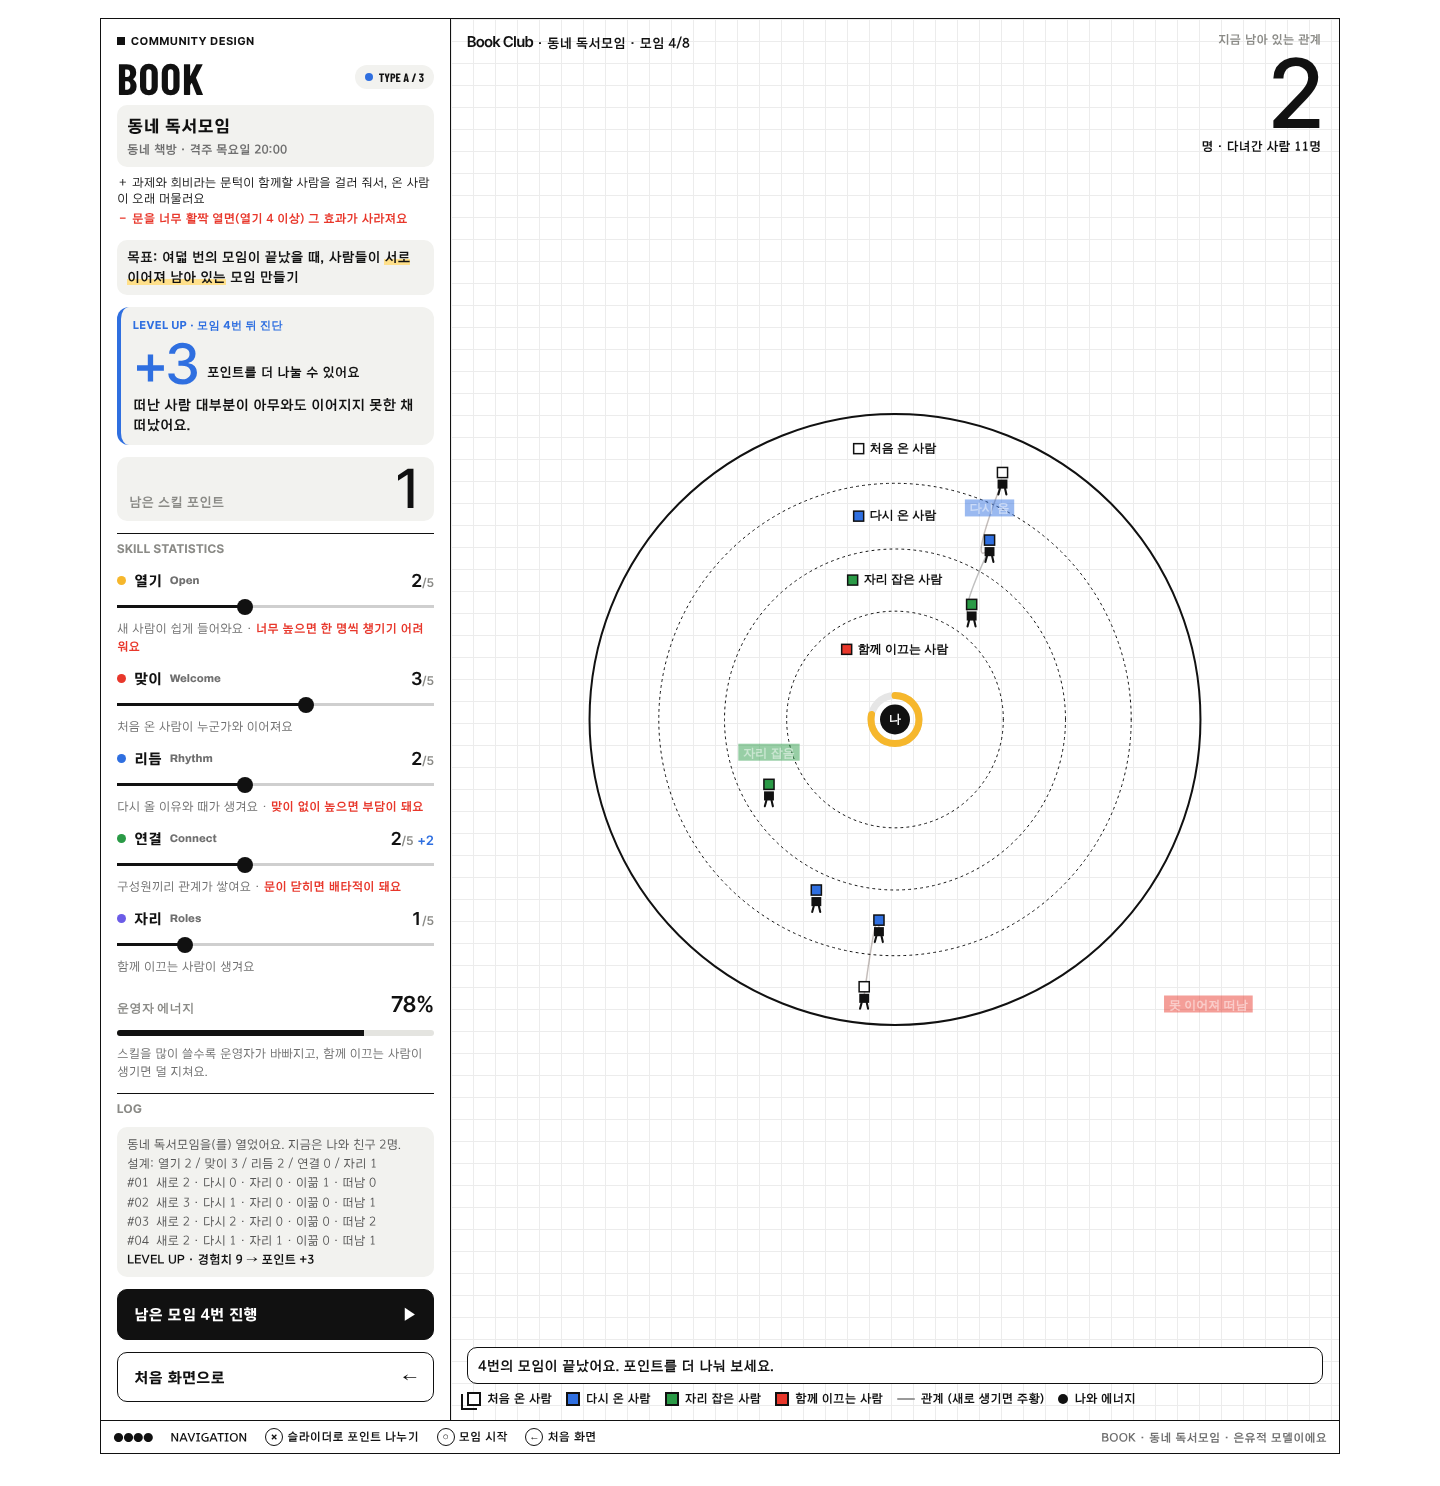
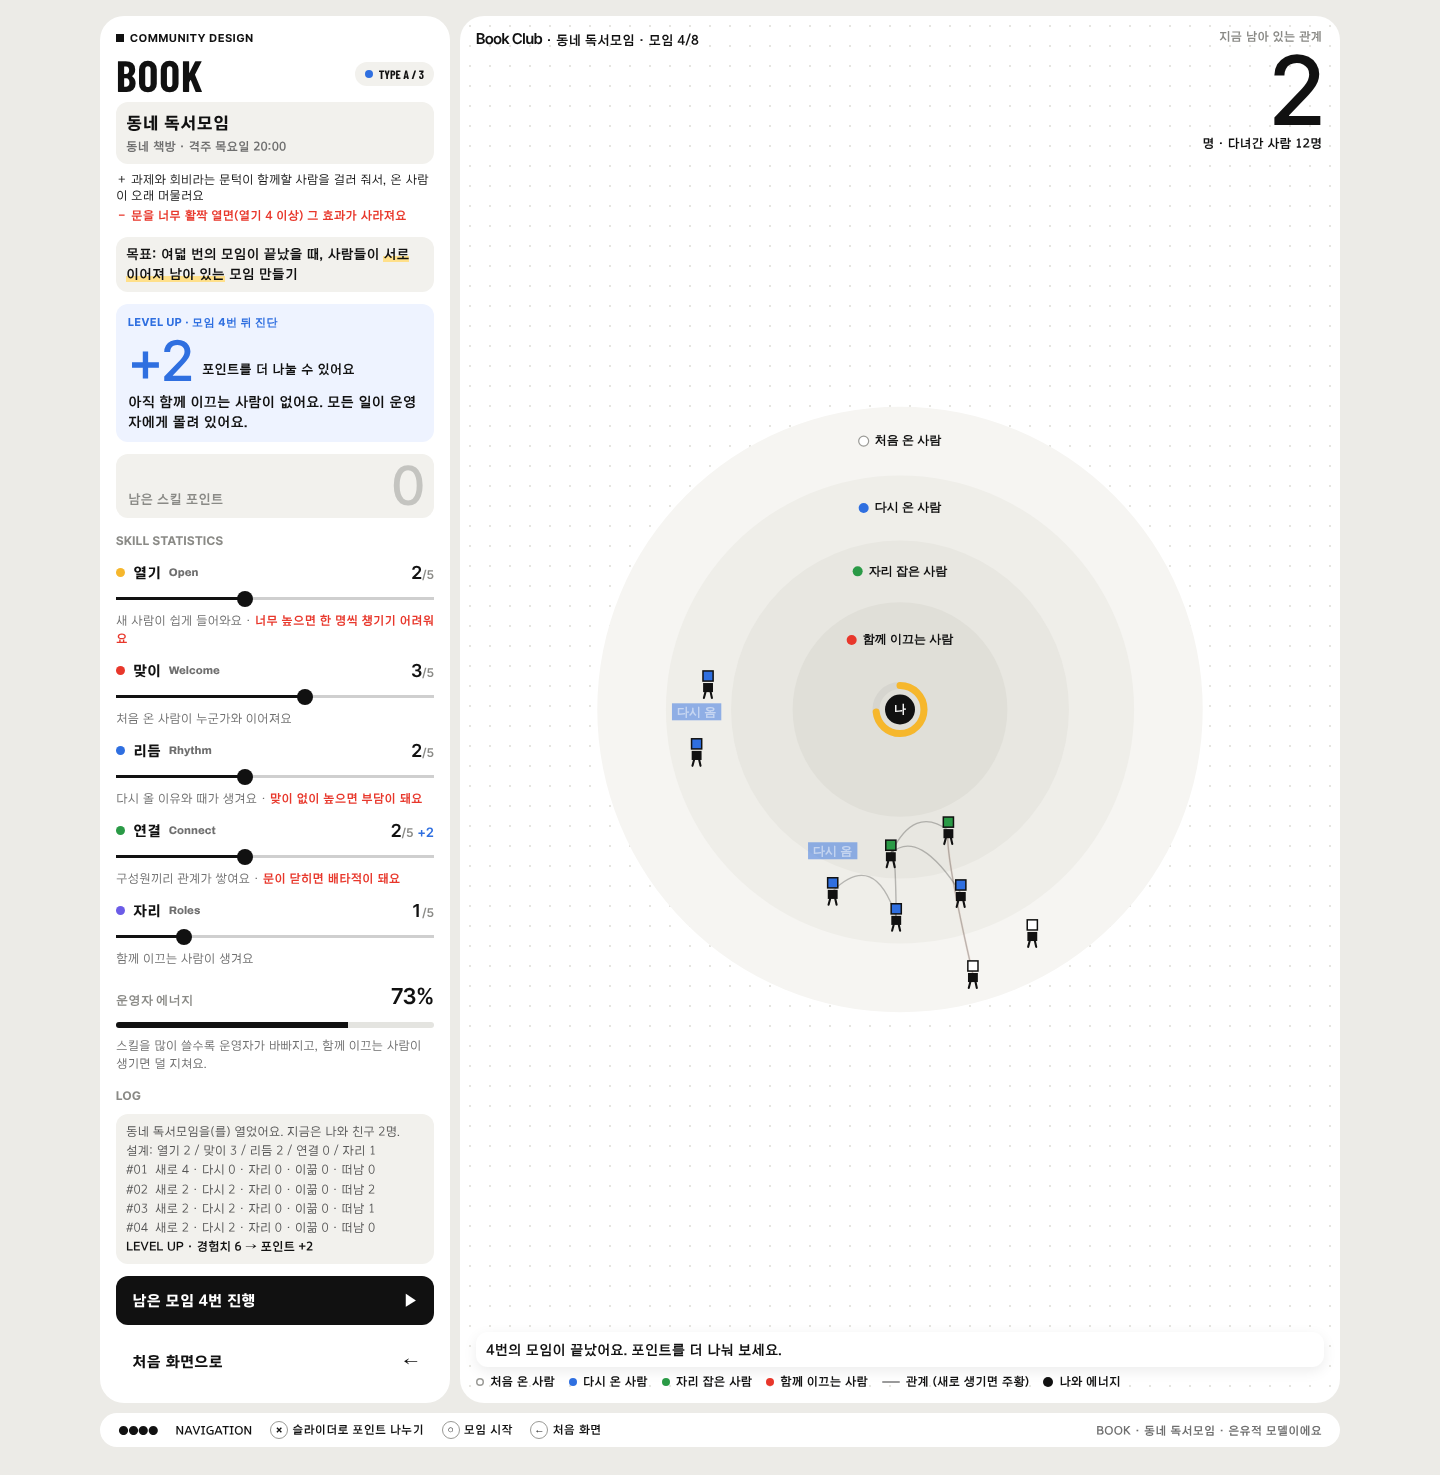
게임 v0.8 시안: 검은 선 없는 큰 radius 상자, 화면 비율이 바뀌어도 원이 찌그러지지 않게 수정
Claude-Session: https://claude.ai/code/session_01SaCvLutmawHZS3kxPWYxw7

diff --git a/thesis/game/moim.v07.src.html b/thesis/game/moim.v07.src.html
@@ -380,6 +380,54 @@ input[type=range]::-moz-range-thumb{border-radius:50%;border:0;background:var(--
 .q2 small{font-family:var(--f-head);font-weight:700;font-size:11px;letter-spacing:.06em;color:var(--soft)}
 .q2 b{font-size:20px;font-weight:800;line-height:1.4}
 .c2-r .cell p{font-size:13px;line-height:1.5;font-weight:700}
+
+/* ───────── v0.8 부드러운 상자: 검은 선 없이, 큰 radius의 흰 상자를 따뜻한 회색 바탕 위에 ───────── */
+:root{--page:#ecebe7;--card:#ffffff;--cell:#f2f1ed;--r-lg:24px;--r-md:16px;--r-sm:12px}
+body{background:var(--page)}
+.wrap{padding-block:16px 28px}
+.btn{border:0;border-radius:var(--r-sm)}
+.btn.ghost{background:var(--card)}
+.btn:disabled{background:#cfcec9;color:#fff;opacity:1}
+.lab{border-top:0;padding-top:0}
+/* 첫 화면 */
+.intro{border:0;gap:10px;min-height:min(88vh,780px)}
+.map{border:0!important;background:var(--card);border-radius:var(--r-lg)}
+.head{background:var(--card);border-radius:var(--r-lg);overflow:hidden}
+.h-bot{border-top:0;padding-top:4px}
+.ucard{border:0;border-radius:var(--r-sm);box-shadow:0 6px 20px rgba(0,0,0,.10)}
+.maplab{border-radius:var(--r-sm);padding:6px 8px}
+.istats div{border-radius:var(--r-sm)}
+/* 모임 고르기 */
+.entry{border:0;display:grid;gap:10px}
+.e-bar{border:0;background:var(--card);border-radius:999px;padding:10px 18px}
+.e-cards{padding:0}
+.ecard{border:0;border-radius:var(--r-lg)}
+.ecard:hover,.ecard:focus-visible{box-shadow:0 12px 28px rgba(0,0,0,.12)}
+.e-img{border-radius:var(--r-md);margin:10px 10px 0}
+.e-cells{padding:8px 10px 0}
+.e-cells .cell{border-radius:var(--r-sm)}
+.e-go{margin:0 10px 10px;border-radius:var(--r-sm)}
+.e-foot{padding:0}
+/* 설계 화면 */
+.tool{border:0;gap:10px;grid-template-columns:350px minmax(0,1fr)}
+@media (max-width:820px){.tool{grid-template-columns:minmax(0,1fr)}}
+.panel{border:0!important;background:var(--card);border-radius:var(--r-lg)}
+.canvas-wrap{border-radius:var(--r-lg);overflow:hidden;background-color:var(--card);background-image:radial-gradient(#e6e5e0 1px,transparent 1px);background-size:20px 20px}
+.canvas-wrap::after{display:none}
+.sec-h{border-top:0;padding-top:2px}
+.p-name,.goal,.pts2,.log,.lvl2{border-radius:var(--r-sm)}
+.lvl2{border-left:0;background:#eef3ff}
+.c-cap #cap{border:0;border-radius:var(--r-sm);box-shadow:0 4px 14px rgba(0,0,0,.08)}
+.hints{border:0;background:var(--card);border-radius:999px;margin-top:10px;padding:8px 18px}
+.hints kbd{border-color:#9a9a96}
+/* 결과 */
+.c2-l h1{margin-top:2px}
+.photo2{border:0;border-radius:var(--r-lg)}
+.photo2 .cap{border-top:0;background:var(--cell)}
+.c2-m{border:0;background:var(--card);border-radius:var(--r-lg);padding:18px}
+.c2-m .cell{border-radius:var(--r-sm)}
+.q2{border:0;background:var(--card);border-radius:var(--r-lg)}
+.c2-r .cell{background:var(--card);border-radius:var(--r-md);padding:12px 14px}
 @media (prefers-reduced-motion:reduce){*{transition:none!important;animation:none!important}}
 </style>
 
@@ -695,8 +743,8 @@ function renderIntro(){
       <div><b>${T.code} · ${String(r.t%10000).padStart(4,'0')}${r.example?' (예시)':''}</b><span>${V.t}</span></div><span class="ck" style="color:${V.c}">●</span>
       ${si===0?`<div class="pg"><span>다시 온 비율</span><em><s style="width:${r.rate}%"></s></em><span>${r.rate}%</span></div>`:''}</div>`;}).join('');
   const wires=feat.map((ri,si)=>{const c=centers[ri],s=slots[si],x=c.x*100,y=c.y*100,mx=x,my=s.y;
-    return `<path class="u${si}" d="M${s.x} ${s.y} Q${mx} ${my} ${x} ${y}" fill="none" stroke="#111" stroke-width="1.2" vector-effect="non-scaling-stroke"/>
-      <rect x="${x-.7}" y="${y-.9}" width="1.4" height="1.8" fill="#111"/>`;}).join('');
+    return `<path class="u${si}" d="M${s.x} ${s.y} Q${mx} ${my} ${x} ${y}" fill="none" stroke="#6b6b67" stroke-width="1.2" vector-effect="non-scaling-stroke"/>
+      <rect x="${x-.7}" y="${y-.9}" width="1.4" height="1.8" fill="#6b6b67"/>`;}).join('');
   app.innerHTML=`<div class="intro">
     <div class="map"><canvas id="mapcv" role="img" aria-label="지금까지 만들어진 모임 ${rows.length}개를 점 무리로 그린 지도"></canvas>
       <svg class="wires" viewBox="0 0 100 100" preserveAspectRatio="none" aria-hidden="true">${wires}</svg>${cards}
@@ -756,12 +804,13 @@ function renderTool(){
       <div class="c-top"><span><span class="latin">${T.en}</span> · ${T.name} · <span id="mt"></span></span></div>
       <div class="c-hero"><small>지금 남아 있는 관계</small><b class="hero-n" id="hero">0</b><span id="hero2"></span></div>
       <div class="c-cap"><span id="cap"></span>
-        <span class="c-key">${STAGE_NAMES.map((n,i)=>`<span><i class="sq" style="background:${STAGE_C[i]};border:2px solid #111"></i>${n}</span>`).join('')}<span><i style="width:18px;height:2px;background:#9a9a9a;display:inline-block;border-radius:2px"></i>관계 (새로 생기면 주황)</span><span><i class="sq" style="background:${COL.ink};border-radius:50%"></i>나와 에너지</span></span></div></div></div>
+        <span class="c-key">${STAGE_NAMES.map((n,i)=>`<span><i class="dot" style="background:${STAGE_C[i]};${i===0?'box-shadow:inset 0 0 0 1.5px #9a9a96':''}"></i>${n}</span>`).join('')}<span><i style="width:18px;height:2px;background:#9a9a9a;display:inline-block;border-radius:2px"></i>관계 (새로 생기면 주황)</span><span><i class="sq" style="background:${COL.ink};border-radius:50%"></i>나와 에너지</span></span></div></div></div>
     <div class="hints"><span class="dots">●●●●</span><span>NAVIGATION</span><span><kbd>×</kbd>슬라이더로 포인트 나누기</span><span><kbd>○</kbd>모임 시작</span><span><kbd>←</kbd>처음 화면</span><span class="r">${T.code} · ${T.name} · 은유적 모델이에요</span></div>`;
   canvas=document.getElementById('cv');ctx=canvas.getContext('2d');
+  if(window.ResizeObserver){new ResizeObserver(()=>sizeCanvas()).observe(canvas.parentElement);}
   sizeCanvas();renderPanel();loop();
 }
-function sizeCanvas(){if(!canvas)return;const r=canvas.getBoundingClientRect(),d=window.devicePixelRatio||1;canvas.width=Math.round(r.width*d);canvas.height=Math.round(r.height*d);}
+function sizeCanvas(){if(!canvas)return;const r=canvas.getBoundingClientRect(),d=window.devicePixelRatio||1,w=Math.round(r.width*d),h=Math.round(r.height*d);if(canvas.width!==w)canvas.width=w;if(canvas.height!==h)canvas.height=h;}
 window.addEventListener('resize',()=>{sizeCanvas();if(!st&&screen==='intro'&&mapRedraw)mapRedraw();});
 function renderPanel(){
   const P=document.getElementById('panel');if(!P)return;
@@ -843,16 +892,15 @@ function figure(x,y,r,head,hollow,a){
 }
 function loop(){
   if(!st||!canvas||!document.body.contains(canvas))return;
+  sizeCanvas();
   const W=canvas.width,H=canvas.height,d=window.devicePixelRatio||1,S=Math.min(W,H)/2*.8,cx=W/2,cy=H/2;
   ctx.clearRect(0,0,W,H);
   // 구역: 검은 실선 동심원
   const B=[.86,.665,.48,.305,.09];
-  ctx.strokeStyle=COL.ink;
-  B.slice(0,4).forEach((r,i)=>{ctx.lineWidth=(i===0?2:1)*d;ctx.setLineDash(i===0?[]:[2*d,4*d]);ctx.beginPath();ctx.arc(cx,cy,r*S,0,Math.PI*2);ctx.stroke();});
-  ctx.setLineDash([]);
+  ['#f6f5f2','#efeee9','#e8e7e1','#e0dfd8'].forEach((c,i)=>{ctx.fillStyle=c;ctx.beginPath();ctx.arc(cx,cy,B[i]*S,0,Math.PI*2);ctx.fill();});
   ctx.textAlign='left';ctx.textBaseline='middle';ctx.font=`700 ${12*d}px Pretendard,sans-serif`;
   STAGE_NAMES.forEach((n,i)=>{const y=cy-((B[i]+B[i+1])/2)*S;const w=ctx.measureText(n).width;const x0=cx-(w+16*d)/2;
-    ctx.fillStyle=STAGE_C[i];ctx.fillRect(x0,y-5*d,10*d,10*d);ctx.strokeStyle=COL.ink;ctx.lineWidth=1.5*d;ctx.strokeRect(x0,y-5*d,10*d,10*d);
+    ctx.fillStyle=STAGE_C[i];ctx.beginPath();ctx.arc(x0+5*d,y,5*d,0,Math.PI*2);ctx.fill();if(i===0){ctx.strokeStyle="#9a9a96";ctx.lineWidth=1.2*d;ctx.stroke();}
     ctx.fillStyle=COL.ink;ctx.fillText(n,x0+16*d,y);});
   ctx.textBaseline='alphabetic';
   // 움직임
@@ -869,7 +917,7 @@ function loop(){
     if(fresh>0){ctx.strokeStyle=COL.orange;ctx.globalAlpha=Math.min(a.alpha,b.alpha)*fresh;ctx.lineWidth=2.6*d;ctx.beginPath();ctx.moveTo(ax,ay);ctx.quadraticCurveTo(qx,qy,bx,by);ctx.stroke();}}
   ctx.globalAlpha=1;
   // 가운데: 나와 에너지
-  ctx.lineWidth=7*d;ctx.strokeStyle='#e6e6e6';ctx.beginPath();ctx.arc(cx,cy,24*d,0,Math.PI*2);ctx.stroke();
+  ctx.lineWidth=7*d;ctx.strokeStyle='#d6d5cf';ctx.beginPath();ctx.arc(cx,cy,24*d,0,Math.PI*2);ctx.stroke();
   ctx.strokeStyle=st.E<30?COL.red:COL.yellow;ctx.beginPath();ctx.arc(cx,cy,24*d,-Math.PI/2,-Math.PI/2+Math.PI*2*st.E/100);ctx.stroke();
   ctx.beginPath();ctx.arc(cx,cy,15*d,0,Math.PI*2);ctx.fillStyle=COL.ink;ctx.fill();
   ctx.fillStyle=COL.paper;ctx.font=`800 ${12*d}px Pretendard,sans-serif`;ctx.textAlign='center';ctx.textBaseline='middle';ctx.fillText('나',cx,cy+.5*d);ctx.textBaseline='alphabetic';

diff --git a/thesis/26-game-prototype.md b/thesis/26-game-prototype.md
@@ -87,3 +87,8 @@
 - 화면별 주인공: 첫 화면 = 중심 질문 헤드라인 / 모임 고르기 = 모임 코드 + 숫자 칸 3개(유입·머무름·운영 부담) / 설계 = 남은 스킬 포인트 / 진행 = 지금 남아 있는 관계 수 / 레벨업 = +포인트와 진단 / 결과 = 남은 관계 수
 - 관계 선: 가운데 쪽으로 휜 가는 회색 곡선, 새로 생긴 선만 잠깐 주황
 - 글꼴: KoddiUD 온고딕 Regular·Bold·ExtraBold 원본 파일을 그대로 넣음(라이선스상 서체 데이터 수정 금지라 서브셋하지 않음, 약 2.1MB)
+
+## v0.8 시안 (2026-10-28, 같은 파일, 컨펌 대기)
+- 연구자 피드백: ① 화면 비율이 바뀌면 시뮬레이션 원이 찌그러짐 ② 검은 선 없이 radius가 큰 상자 사용
+- ① 원인: 왼쪽 패널 길이가 바뀌면(레벨업 상자 등) 캔버스 표시 크기만 늘고 내부 픽셀 크기는 그대로였음 → ResizeObserver와 매 프레임 크기 확인으로 해결. 진행 중 창 크기를 바꿔도 비율 일치 확인
+- ② 따뜻한 회색 바탕(#ecebe7) 위 흰 상자(radius 24), 안쪽 회색 칸(radius 12), 조작 안내 줄은 알약 모양. 검은 테두리 모두 제거. 시뮬레이션 동심원도 검은 선 대신 옅은 회색 구역, 범례는 점으로
